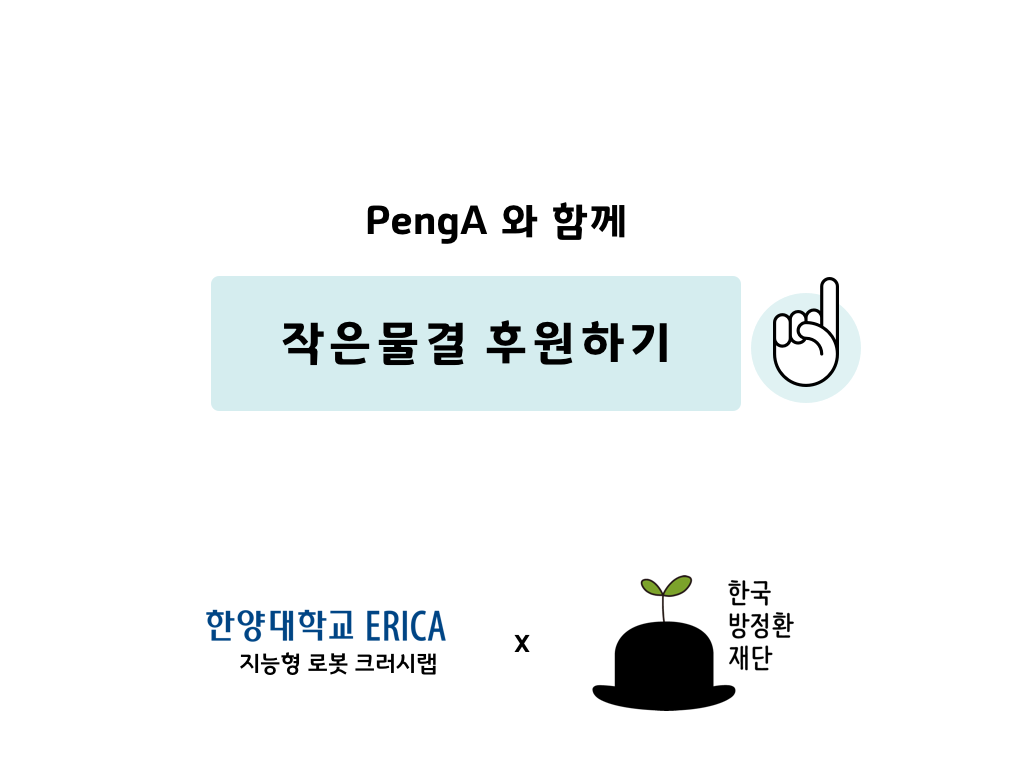
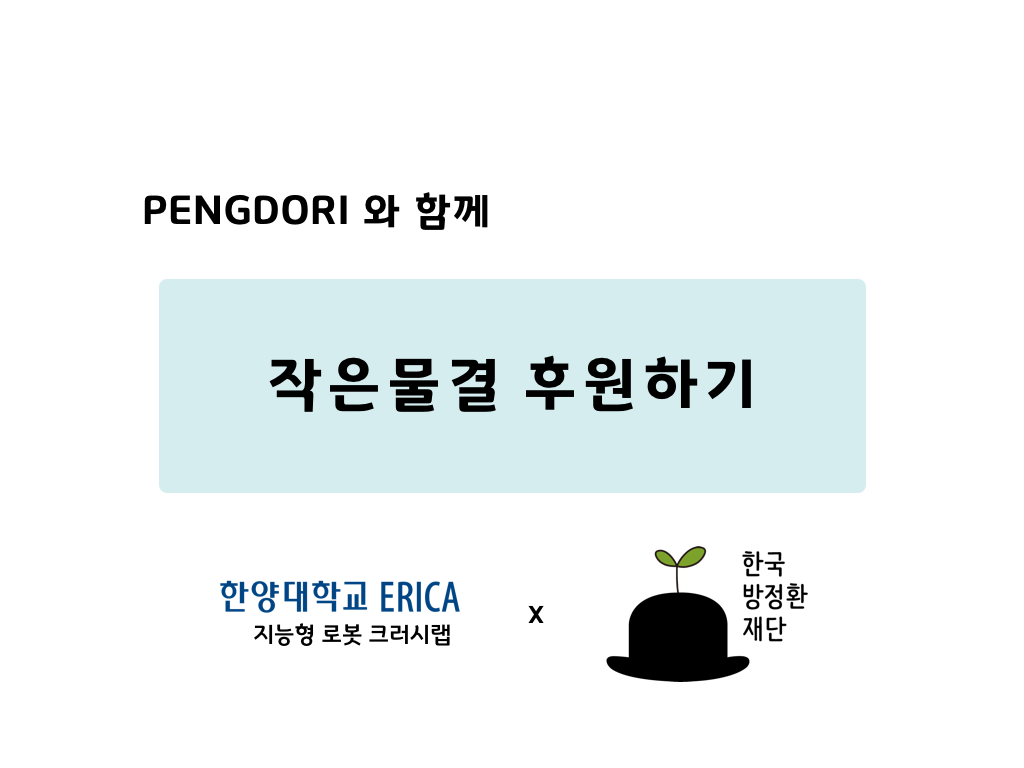
ui수정, js수정

diff --git a/popup.js b/popup.js
@@ -3,39 +3,42 @@ var popup_button = document.getElementById('btn_popup');
     layer_popup("#notice_layer");
   });
 
-    function layer_popup(el){
+function layer_popup(el){
 
-        var $el = $(el);        //레이어의 id를 $el 변수에 저장
-        var isDim = $el.prev().hasClass('dimBg');   //dimmed 레이어를 감지하기 위한 boolean 변수
+    var $el = $(el);        //레이어의 id를 $el 변수에 저장
+    var isDim = $el.prev().hasClass('dimBg');   //dimmed 레이어를 감지하기 위한 boolean 변수
 
-        isDim ? $('.dim-layer').fadeIn() : $el.fadeIn();
+    isDim ? $('.dim-layer').fadeIn() : $el.fadeIn();
 
-        var $elWidth = ~~($el.outerWidth()),
-            $elHeight = ~~($el.outerHeight()),
-            docWidth = $(document).width(),
-            docHeight = $(document).height();
+    var $elWidth = ~~($el.outerWidth()),
+        $elHeight = ~~($el.outerHeight()),
+        docWidth = $(document).width(),
+        docHeight = $(document).height();
 
-        // 화면의 중앙에 레이어를 띄운다.
-        if ($elHeight < docHeight || $elWidth < docWidth) {
-            $el.css({
-                marginTop: -$elHeight /2,
-                marginLeft: -$elWidth/2
-            })
-        } else {
-            $el.css({top: 0, left: 0});
-        }
+    // 화면의 중앙에 레이어를 띄운다.
+    if ($elHeight < docHeight || $elWidth < docWidth) {
+        $el.css({
+            marginTop: -$elHeight /2,
+            marginLeft: -$elWidth/2
+        })
+    } else {
+        $el.css({top: 0, left: 0});
+    }
 
-        $el.find('a.btn-layerClose').click(function(){
-            
-            //이부분에 로봇에 신호 주는 부분 작성
-            isDim ? $('.dim-layer').fadeOut() : $el.fadeOut(); // 기부완료 버튼을 클릭시 레이어가 닫힌다.
-            alert("Bye");
-            return false;
-        });
+    $el.find('a.btn-layerClose').click(function(){
+        
+        //이부분에 로봇에 신호 주는 부분 작성
+        isDim ? $('.dim-layer').fadeOut() : $el.fadeOut(); // 기부완료 버튼을 클릭시 레이어가 닫힌다.
+        //alert("Bye");
+        myFunction("completion");
+        return false;
+    });
 
-        $('.layer .dimBg').click(function(){
-            $('.dim-layer').fadeOut();
-            return false;
-        });
+    $('.layer .dimBg').click(function(){
+        $('.dim-layer').fadeOut();
+        return false;
+    });
 
-    } 
+} 
+
+

diff --git a/menu.html b/menu.html
@@ -1,8 +1,12 @@
+{% load static %}
+
 <!doctype html>
 <html lang="en">
   <head>
     <!-- Required meta tags -->
     <meta charset="utf-8">
+    <!-- <script type="text/javascript" src="http://static.robotwebtools.org/EventEmitter2/current/eventemitter2.min.js"></script>
+    <script type="text/javascript" src="http://static.robotwebtools.org/roslibjs/current/roslib.min.js"></script> -->
     <meta name="viewport" content="width=device-width, initial-scale=1, shrink-to-fit=no">
 
     <!-- Bootstrap CSS -->
@@ -66,7 +70,7 @@
           <h1 class="dohyeon-font">한국 방정환 재단</h1>
           <hr class="my-4">
           <p class="dohyeon-font">한국 방정환 재단은 어린이-청소년 사랑을 실천하신 소파 방정환 선생님의 가치와 철학을 계승하고자 <br>1998년 설립된 비영리 법인입니다. </p>
-          <p class="dohyeon-font">'000펭귄'에 기부해 주신 금액은 <br>방정환 선생님의 뜻을 이어 어린이를 위한 복지에 소중히 사용됩니다.</p>
+          <p class="dohyeon-font">PengDoRI에 기부해 주신 금액은 <br>방정환 선생님의 뜻을 이어 어린이를 위한 복지에 소중히 사용됩니다.</p>
 
         </div>
       </div>
@@ -85,14 +89,18 @@
                 <div class="pop-conts">
                   <div class="image">
                     <img src="qrcode.jpeg" alt="qrcode" width="300" height="auto">
-                    <p>신한 110-111-1111 김펭귄</p>
+                    <p>기업 608-033136-01-015 김민우</p>
                 </div>
               </div>
-              <div class="btn-r"> <a href="#" class="btn-layerClose">기부 완료</a></div>
+              <div id="completion" class="btn-r"> <a href="#" class="btn-layerClose">기부 완료</a></div>
               
             </div></div></div></div>
     <script type="text/javascript" src="https://code.jquery.com/jquery-3.1.1.min.js"></script>  
-    <script src="popup.js"></script>        
+    <script src="popup.js"></script>
+    <script src="scripts.js"></script>
+    <!--roslibjs 연결-->
+    <script src="{% static 'js/roslibjs/build/roslib.js' %}"></script>
+    <script src="{% static 'js/scripts.js' %}"></script>        
  
   </body>
 </html>

diff --git a/scripts.js b/scripts.js
@@ -1,0 +1,56 @@
+var ros = new ROSLIB.Ros({
+	ros.connect('ws://0.0.0.0:9090');
+});
+
+//연결확인
+ros.on('error', function(erros){
+	console.log(error);
+	//alert("Error...");
+});
+
+ros.on('connection', function(){
+	console.log('Connection made');
+	//alert("연결 성공");
+});
+
+ros.on('close', function(){
+	console.log('Connection closed');
+	//alert("연결 종료");
+});
+
+// 서비스 및 변수 선언
+var iLightClient = new ROSLIB.Service({
+  ros: ros,
+  name: '/comm_light',
+  serviceType: 'cranberry_topic/CommLight'
+});
+ 
+var state = 0;
+
+
+function myFunction(light_id) {
+  alert("hooo");
+
+  // html에 존재하는 요소 자체의 값을 읽어와 처리합니다.
+  if (document.getElementById(light_id).innerHTML == 0) { state = 1; document.getElementById(light_id).innerHTML = 1; }
+  else if (document.getElementById(light_id).innerHTML == 1) { state = 0; document.getElementById(light_id).innerHTML = 0; }
+
+  //문자열 데이터 'light_id'를 숫자 데이터로 변환합니다.
+  var light_num = Number(light_id.split('_')[1]);
+
+  //target과 state에 대한 정보를 포함하는 toggle_light Request를 만듭니다. 
+  //이 request 값은 한 번 선언되면 변치 않는 것 같습니다. 따라서 매 update_light 함수가 실행될 때마다 선언합니다.
+
+  var toggle_light = new ROSLIB.ServiceRequest({
+    target: light_num,
+    state: state
+  });
+
+  iLightClient.callService(toggle_light, function(result){
+  	console.log("result : " + toggle_light.target + ':' + result.result);
+  })
+}
+
+
+
+
